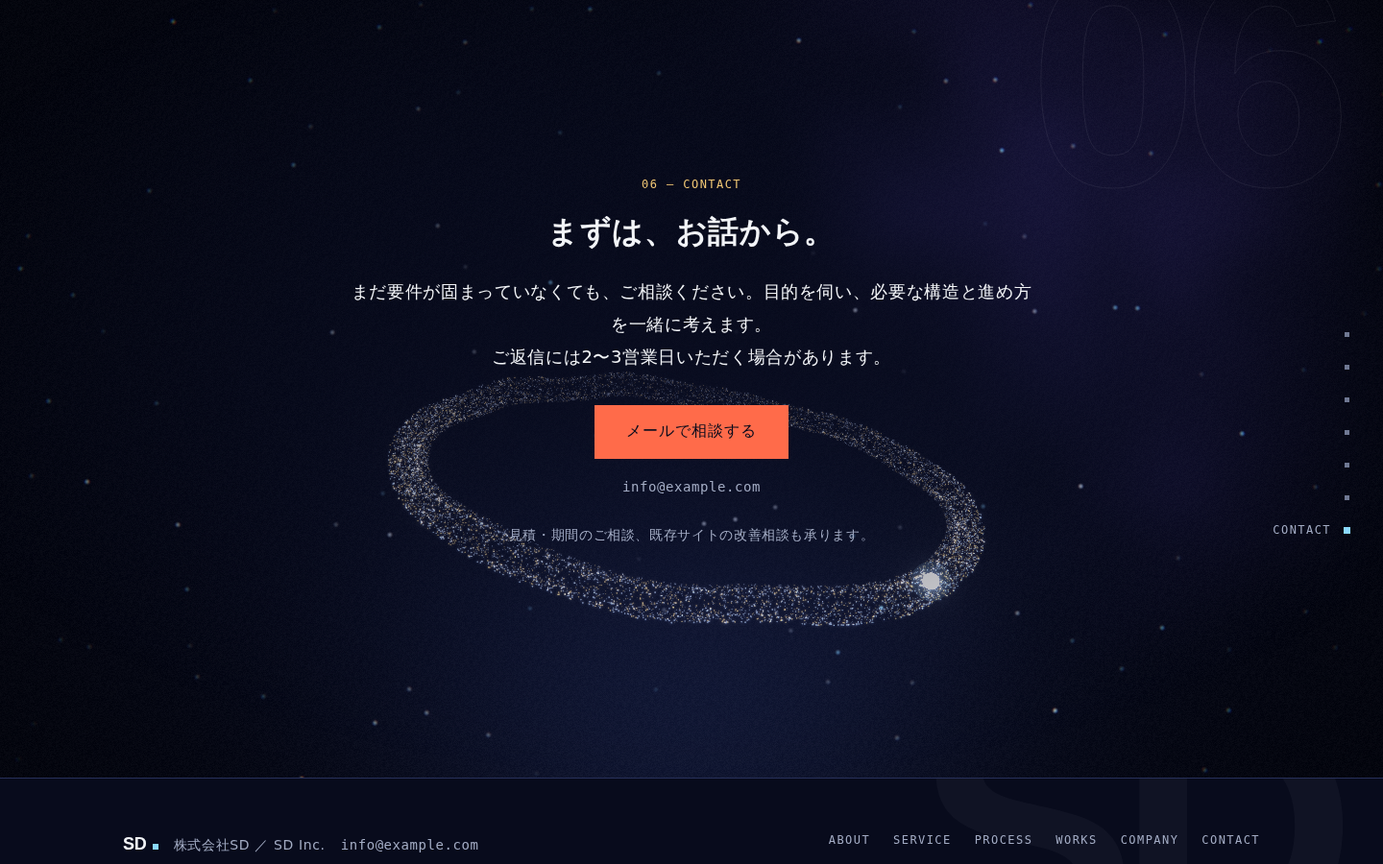
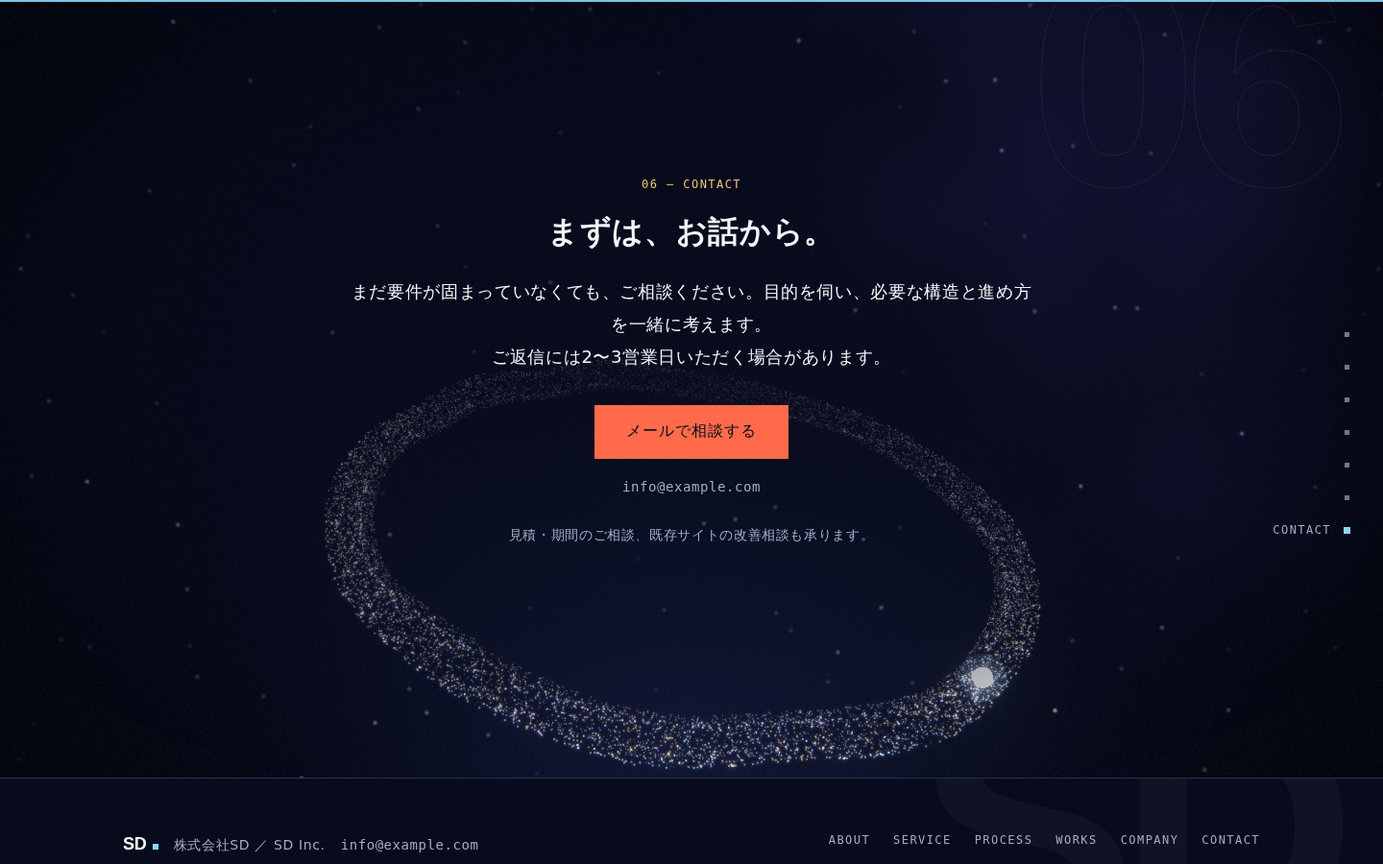
Address round-3 finish-gate findings
- Contact ring pushed outside the text block on desktop, lifted above
  the heading on mobile; orbit light dimmed on mobile; stronger scrim
- Removed CSS transform transitions that fought GSAP-driven magnet/tilt;
  square cursor node; unused cursor text state dropped
- Shorter preloader, skipped on repeat visits within a session
- Post-processing auto-disables on devices still slow at DPR 1
- Mobile hero galaxy lifted clear of the label; subtler grain/vignette;
  progress bar moved outside the auto-hiding header
- Brief v1.2 / storyboard v1.2 notes for planets, post-processing, type

Claude-Session: https://claude.ai/code/session_01Fd1mfAUBwXNiZSSwWGqTG3

Changed region(s): [[0.2188, 0.4356, 0.75, 0.9022], [0.5625, 0.4667, 0.6562, 0.5289]]

diff --git a/src/styles/components.css b/src/styles/components.css
@@ -46,7 +46,7 @@
   font-family: var(--sd-font-jp); font-weight: 500; font-size: 0.9375rem;
   letter-spacing: 0.06em;
   border: 1px solid transparent;
-  transition: transform var(--dur-ui) var(--ease-out), background-color var(--dur-ui) var(--ease-out),
+  transition: background-color var(--dur-ui) var(--ease-out),
     color var(--dur-ui) var(--ease-out), border-color var(--dur-ui) var(--ease-out),
     box-shadow var(--dur-ui) var(--ease-out);
 }
@@ -54,7 +54,6 @@
   background: var(--sd-signal); color: var(--sd-signal-text);
 }
 .btn--signal:hover, .btn--signal:focus-visible {
-  transform: scale(1.02);
   box-shadow: 0 0 24px rgba(255, 107, 74, 0.35);
 }
 .btn--outline {
@@ -228,9 +227,9 @@
   background: rgba(8, 11, 28, 0.72);
   border: 1px solid rgba(242, 244, 247, 0.12);
   padding: var(--space-4);
-  transition: transform var(--dur-ui) var(--ease-out), border-color var(--dur-ui) var(--ease-out);
+  transition: border-color var(--dur-ui) var(--ease-out);
 }
-.work:hover, .work:focus-within { transform: translateY(-4px); border-color: var(--sd-secondary); }
+.work:hover, .work:focus-within { border-color: var(--sd-secondary); }
 .work__thumb {
   position: relative; aspect-ratio: 16 / 10; margin-bottom: var(--space-4);
   background: var(--sd-surface); overflow: hidden;
@@ -309,18 +308,19 @@ html.is-loading { overflow: hidden; }
 /* ---------- Custom cursor ---------- */
 .cursor { position: fixed; inset: 0; z-index: 70; pointer-events: none; opacity: 0; transition: opacity 0.3s; }
 .cursor.is-visible { opacity: 1; }
-.cursor__dot, .cursor__ring { position: absolute; top: 0; left: 0; border-radius: 50%; will-change: transform; }
-.cursor__dot { width: 6px; height: 6px; margin: -3px 0 0 -3px; background: var(--sd-primary); transition: transform 0.25s var(--ease-out), opacity 0.25s; }
-.cursor__ring { width: 36px; height: 36px; margin: -18px 0 0 -18px; border: 1px solid rgba(242, 244, 247, 0.45); }
-.cursor__ring::before { content: ""; position: absolute; inset: -1px; border-radius: 50%; border: 1px solid var(--sd-primary); opacity: 0; transform: scale(0.6); transition: transform 0.35s var(--ease-out), opacity 0.35s; }
+.cursor__dot, .cursor__ring { position: absolute; top: 0; left: 0; will-change: transform; }
+/* the ■ node from the wordmark, not a generic round cursor */
+.cursor__dot { width: 6px; height: 6px; margin: -3px 0 0 -3px; background: var(--sd-primary); }
+.cursor__ring { width: 30px; height: 30px; margin: -15px 0 0 -15px; border: 1px solid rgba(242, 244, 247, 0.4); }
+.cursor__ring::before { content: ""; position: absolute; inset: -1px; border: 1px solid var(--sd-primary); opacity: 0; transform: scale(0.6); transition: transform 0.35s var(--ease-out), opacity 0.35s; }
 .cursor.is-hover .cursor__ring::before { opacity: 1; transform: scale(1.6); }
 .cursor.is-hover .cursor__ring { border-color: transparent; }
-.cursor.is-hover .cursor__dot { transform: scale(0.5); }
+.cursor.is-hover .cursor__dot { opacity: 0.4; }
 .cursor.is-down .cursor__ring::before { transform: scale(1.3); }
 html.has-cursor, html.has-cursor a, html.has-cursor button { cursor: none; }
 
 /* ---------- Header progress ---------- */
-.header__progress { position: absolute; left: 0; bottom: -1px; height: 1px; width: 100%; background: var(--sd-primary); transform-origin: left; transform: scaleX(0); opacity: 0.9; }
+.progress { position: fixed; top: 0; left: 0; z-index: 5; height: 2px; width: 100%; background: var(--sd-primary); transform-origin: left; transform: scaleX(0); opacity: 0.9; pointer-events: none; }
 
 /* ---------- Big section numerals ---------- */
 .section-num {

diff --git a/src/scroll/sections.ts b/src/scroll/sections.ts
@@ -75,7 +75,7 @@ export function setupSections(o: SectionsOptions): () => void {
   {
     const tl = sectionTimeline('hero');
     // mobile: lift the (large) galaxy above the headline, settle to 0 before About
-    const heroY = o.shift ? 0 : 1.2;
+    const heroY = o.shift ? 0 : 1.7;
     S.groupY = heroY;
     seg(tl, 0, 1, { camX: 0, camY: 4.2, camZ: 8.0, pointSize: 2.6, groupY: heroY }, { camX: 0.4, camY: 2.6, camZ: 7.4, pointSize: 2.0, groupY: 0 });
     seg(tl, 0.75, 1, { w0: 1, w1: 0 }, { w0: 0.6, w1: 0.4 });
@@ -186,15 +186,18 @@ export function setupSections(o: SectionsOptions): () => void {
     // starts while the section is still entering (Company only animates in its first 40%)
     const tl = sectionTimeline('contact', { start: 'top 45%', end: 'max' });
     const morphEnd = o.shift ? 0.5 : 0.3;
-    const groupY = o.shift ? -0.3 : 0.9; // mobile: the ring floats above the centred heading
+    // desktop: the ring is pushed outside the text block (closer camera, lower); mobile: nearly edge-on above the heading
+    const groupY = o.shift ? -0.5 : 1.9;
+    const ringRotX = o.shift ? 0.12 : 0.75;
+    const contactZ = o.shift ? 6.2 : 7.5;
     seg(tl, 0, morphEnd * 0.5, { slabOpacity: 0.8 }, { slabOpacity: 0 });
     seg(tl, 0, morphEnd, { w5: 1, w6: 0, pointSize: 1.6, noise: 0.02, breath: 0.012, accentMix: 0.15, idleSpeed: 0.01, colorMix: 0.3 },
       { w5: 0, w6: 1, pointSize: 2.0, noise: 0.05, breath: 0.02, accentMix: 0.4, idleSpeed: 0.04, colorMix: 1 });
-    seg(tl, 0, morphEnd, { camX: -1.6, camY: -0.8, camZ: 7.0, tX: X_COMPANY, tY: 0.6, groupY: 0 }, { camX: 0, camY: 0.4, camZ: 7.5, tX: X_CONTACT, tY: 0, groupY });
+    seg(tl, 0, morphEnd, { camX: -1.6, camY: -0.8, camZ: 7.0, tX: X_COMPANY, tY: 0.6, groupY: 0, rotX: 0 }, { camX: 0, camY: 0.4, camZ: contactZ, tX: X_CONTACT, tY: 0, groupY, rotX: ringRotX });
     bg(tl, 0, morphEnd, { '--bg-x': '35%', '--bg-y': '55%' }, { '--bg-x': '50%', '--bg-y': '50%' });
     seg(tl, morphEnd * 0.6, morphEnd, { orbitOpacity: 0 }, { orbitOpacity: 1 });
     // footer tail
-    seg(tl, 0.7, 1, { opacity: 1, camZ: 7.5 }, { opacity: 0.35, camZ: 8.5 });
+    seg(tl, 0.7, 1, { opacity: 1, camZ: contactZ }, { opacity: 0.35, camZ: contactZ + 1 });
     bg(tl, 0.7, 1, { '--bg-y': '50%' }, { '--bg-y': '100%' });
     tls.push(tl);
   }

diff --git a/src/ui/effects.ts b/src/ui/effects.ts
@@ -68,7 +68,10 @@ export function runPreloader(reduced: boolean): Promise<void> {
     new Promise<void>((r) => (document.readyState === 'complete' ? r() : window.addEventListener('load', () => r(), { once: true }))),
   ]);
 
-  if (reduced) {
+  let seen = false;
+  try { seen = sessionStorage.getItem('sd-loaded') === '1'; sessionStorage.setItem('sd-loaded', '1'); } catch { /* private mode */ }
+
+  if (reduced || seen) {
     return ready.then(() => {
       el.style.transition = 'opacity 0.3s';
       el.style.opacity = '0';
@@ -77,9 +80,9 @@ export function runPreloader(reduced: boolean): Promise<void> {
   }
 
   const state = { p: 0 };
-  const minTime = new Promise<void>((r) => window.setTimeout(r, 1100));
+  const minTime = new Promise<void>((r) => window.setTimeout(r, 650));
   const counter = gsap.to(state, {
-    p: 92, duration: 1.4, ease: 'power2.out',
+    p: 92, duration: 0.9, ease: 'power2.out',
     onUpdate: () => { count.textContent = String(Math.round(state.p)).padStart(3, '0'); fill.style.transform = `scaleX(${state.p / 100})`; },
   });
 
@@ -87,11 +90,11 @@ export function runPreloader(reduced: boolean): Promise<void> {
     counter.kill();
     const tl = gsap.timeline();
     tl.to(state, {
-      p: 100, duration: 0.35, ease: 'power2.inOut',
+      p: 100, duration: 0.2, ease: 'power2.inOut',
       onUpdate: () => { count.textContent = String(Math.round(state.p)).padStart(3, '0'); fill.style.transform = `scaleX(${state.p / 100})`; },
     });
-    tl.to(el.querySelector('.preloader__inner'), { opacity: 0, y: -16, duration: 0.35, ease: 'power2.in' }, '+=0.1');
-    tl.to(el, { yPercent: -100, duration: 0.9, ease: 'power4.inOut', onStart: () => { document.documentElement.classList.remove('is-loading'); resolve(); } }, '-=0.05');
+    tl.to(el.querySelector('.preloader__inner'), { opacity: 0, y: -12, duration: 0.25, ease: 'power2.in' }, '+=0.05');
+    tl.to(el, { yPercent: -100, duration: 0.7, ease: 'power4.inOut', onStart: () => { document.documentElement.classList.remove('is-loading'); resolve(); } }, '-=0.1');
     tl.call(() => el.remove());
   }));
 }

diff --git a/src/three/scene.ts b/src/three/scene.ts
@@ -245,8 +245,8 @@ export function createScene(canvas: HTMLCanvasElement, opts: { isMobile: boolean
     planetMesh.rotation.y = time * 0.05;
     // orbiting light: ring param → tilt 18° about X (matches the T6 target)
     orbitMesh.visible = S.orbitOpacity > 0.002;
-    orbitMat.opacity = S.orbitOpacity * (opts.isMobile ? 1 : 0.8);
-    orbitGlowMat.opacity = S.orbitOpacity * (opts.isMobile ? 0.35 : 0.12);
+    orbitMat.opacity = S.orbitOpacity * (opts.isMobile ? 0.5 : 0.8);
+    orbitGlowMat.opacity = S.orbitOpacity * (opts.isMobile ? 0.10 : 0.12);
     {
       const a = time * 0.45, R = 2.6, tilt = (18 * Math.PI) / 180;
       const x = R * Math.cos(a), z = R * Math.sin(a);
@@ -311,6 +311,7 @@ export function createScene(canvas: HTMLCanvasElement, opts: { isMobile: boolean
       const avg = acc / frames;
       acc = 0; frames = 0;
       if (avg > 22 && dpr > 1) { setDpr(Math.max(1, dpr - 0.25)); goodStreak = 0; }
+      else if (avg > 22 && post) { post.dispose(); post = null; goodStreak = 0; } // still slow at DPR 1: drop post-processing
       else if (avg < 18) { goodStreak += 60; if (goodStreak >= 180 && dpr < maxDpr) { setDpr(Math.min(maxDpr, dpr + 0.25)); goodStreak = 0; } }
       else goodStreak = 0;
     }

diff --git a/src/styles/sections.css b/src/styles/sections.css
@@ -8,6 +8,7 @@
 .scrim-l::before { background: linear-gradient(90deg, rgba(8, 11, 28, 0.78) 0%, rgba(8, 11, 28, 0.55) 45%, transparent 75%); }
 .scrim-r::before { background: linear-gradient(270deg, rgba(8, 11, 28, 0.78) 0%, rgba(8, 11, 28, 0.55) 45%, transparent 75%); }
 .scrim-c::before { background: radial-gradient(60% 50% at 50% 50%, rgba(8, 11, 28, 0.7) 0%, transparent 100%); }
+.section--contact::before { background: radial-gradient(64% 56% at 50% 50%, rgba(8, 11, 28, 0.88) 0%, rgba(8, 11, 28, 0.5) 60%, transparent 100%); }
 .section--hero::before { opacity: 0.35; }
 @media (max-width: 767px) {
   .scrim-l::before, .scrim-r::before {

diff --git a/src/ui/cursor.ts b/src/ui/cursor.ts
@@ -28,7 +28,6 @@ export function setupCursor(): void {
   document.addEventListener('pointerover', (e) => {
     const t = (e.target as HTMLElement).closest<HTMLElement>(HOVER);
     root.classList.toggle('is-hover', !!t);
-    root.classList.toggle('is-text', !!t && t.dataset.cursor === 'text');
   });
   document.addEventListener('pointerdown', () => root.classList.add('is-down'));
   document.addEventListener('pointerup', () => root.classList.remove('is-down'));

diff --git a/index.html b/index.html
@@ -69,8 +69,8 @@
         <span class="menu-btn__bar"></span>
         <span class="menu-btn__bar"></span>
       </button>
-      <span class="header__progress" id="progress" aria-hidden="true"></span>
     </header>
+    <span class="progress" id="progress" aria-hidden="true"></span>
 
     <div class="menu" id="menu" hidden>
       <nav aria-label="モバイルナビゲーション">

diff --git a/src/three/post.ts b/src/three/post.ts
@@ -9,8 +9,8 @@ const GradeShader = {
   uniforms: {
     tDiffuse: { value: null },
     uTime: { value: 0 },
-    uGrain: { value: 0.04 },
-    uVignette: { value: 0.26 },
+    uGrain: { value: 0.03 },
+    uVignette: { value: 0.14 },
     uCA: { value: 0.0009 },
   },
   vertexShader: /* glsl */ `

diff --git a/docs/ui-review.md b/docs/ui-review.md
@@ -168,3 +168,97 @@ Critical／Major に該当しないが、次回の余力で見ておく観察（
 - 「残すべきもの」5点が無傷 — **満たす**
 
 出荷可。上記 §3 の観察は次のイテレーションの任意項目とし、この判定の条件にはしない。
+
+---
+
+## 再審査（第3回・品質パス）
+
+**レビュー**: UI Finish-Gate Reviewer（2026-09-23）
+**対象ビルド**: `bd5a357`（宇宙配色）→ `e682d12`（渦巻銀河）→ `85f0d82`（惑星）→ `a0ad45c`（ポスト処理・プリローダー・カーソル・マイクロインタラクション）
+**契約**: `docs/brand-brief.md`（§3.1 v1.1 配色注記を含む）, `docs/scroll-storyboard.md`
+**証拠**: `scratchpad/shots/1440x900-00.png`（Hero）, `-01.png`（Contact→Footer）, `-about-body / -works-cards / -company-table / -contact-h2 / -contact-cta.png`, `loader-early.png`; `scratchpad/shots-m/390x844-00..04.png` と同名 targeted 5枚
+**注記**:
+- 書体はサンドボックスのフォールバックのため判定対象外。ヘッドレス（swiftshader）は実 GPU より bloom がやや強く出るため、発光面積は「上限側の見積もり」として読む。
+- 依頼にあった `hero-after.png` / `hero-cursor.png` は提出物に存在しない。`loader-early.png` はプリローダーが退場（`yPercent`）を始めた後のフレーム（下端 36px に本体が見えている）で、ワードマーク＋カウンターの状態は写っていない。よって **カーソル・磁力ボタン・Works のチルト・プリローダーの計数表示は、スクリーンショットではなくコードで判定**した。
+- 測定は第2回と同じ純 Python の PNG デコード + WCAG 相対輝度。「発光面積」は L > 0.12 の画素率（DOM の白文字・CTA を含むので実際の 3D 発光はこれより小さい）。「テキスト直下」は行間の帯の背景輝度 p90 と、その帯に対する文字色の合成コントラスト。storyboard §6.7 の上限 `#2A2F3A` は L = 0.028。
+- ビルド実測: JS gzip 合計 197 kB（three 134 / gsap 44 / app 19）、CSS 5.2 kB。storyboard §7 の 230 kB 以内（bloom 込み）。
+
+### 1. 判定
+
+### HOLD
+
+理由: 「宇宙」への転換そのものは成功している。渦巻銀河の腕がタグラインの背後を斜めに抜け、About の核が惑星になり、Contact の輪に光が周回する、という物語は v1.0 の骨格（点 → 核 → 格子 → 設計図 → 結び目 → 礎 → 輪）を一切崩していない。発光面積は全フレームで brief §3.1 の 5% を下回り（DOM 込みで 1.3〜4.2%、モバイルの超過分は見出しと CTA ボタン）、bloom（strength 0.32 / threshold 0.72）は「点と線の縁を柔らかくする」範囲に収まっている。ここまでは制作会社の自社サイトとして通用する。
+
+出荷を止めるのは次の3点である。(1) **Contact — サイトで唯一の変換点 — で、ページ最大の発光体である輪と周回光がリード文の文字の上を通る。** デスクトップの h2 中央フレームで、リード1行目の先頭3文字・末尾3文字の背後に輪の帯があり行間の背景 p90 = 0.197、白文字との合成 **3.9:1**（`1440x900-contact-h2.png`）。モバイルでは真横から見た輪が帯になってリード1〜3行目を横切り、周回光（白球 16px）が「まだ要件が…」の「まだ」に重なって **1.2:1**（`390x844-contact-cta.png`）。光は時間駆動で約14秒に1周するため、モバイルの全訪問者が読んでいる最中に文字が消える瞬間を必ず見る。storyboard §6.7 の受け入れ基準（local 0.5 で 4.5:1）の明確な違反で、第2回で PASS した箇所が bloom と周回光で後退した。(2) **インタラクション層が自分自身と衝突している。** `.btn` と `.work` の CSS に `transition: transform` が残ったまま、GSAP `quickTo` が毎フレーム inline transform を書く（磁力ボタン・チルト）。毎フレーム 280ms のトランジションが起動し直すので追従はもたつき、inline transform が `:hover { transform }` を上書きするため、CTA の `scale(1.02)` と Works カードの `translateY(-4px)`（第2回で「残すべき」とした挙動）は実機では発火しない。「Web制作会社クオリティ」は、こういう細部が破綻していないことで判定される。(3) **プリローダーが「読み込むもののないサイト」で毎回 2 秒近く画面を塞ぐ。** 画像なし・フォントは `display=swap` なのに最短 1.1s の足止め + 退場 1.7s。ヒーロー見出しの表示開始は約 1.9〜2.0s、文字出しの完了は約 3.2s で、storyboard §7 の LCP ≤ 2.0s を自ら破る。再訪でもスキップしない。
+
+加えて、実装が契約文書から静かに離れた箇所が3つある（ポスト処理は storyboard §2.3「ポストプロセスなし」§8-15「`postprocessing` の import なし」で明示的に禁止、ヒーローの環付き惑星は brief §3.5-4「現実の物体を模さない」に抵触、`--sd-fs-display` 等のトークン変更は brief §3.1 v1.1 注記「配色のみ変更」と矛盾）。いずれもクライアント要望の正当な結果と読めるが、**契約側を v1.2 に更新するか実装を戻すかを決めないまま出荷しない**。
+
+### 2. スタジオ級として読める箇所（残すもの）
+
+1. **Hero の銀河とタグラインの関係**（`1440x900-00.png`）— 腕が左下から右上へ抜け、核（最も明るい塊、L p90 0.55）が「動き出す。」の句点の直後 (720, 430) に置かれている。見出し・リード・CTA は腕の暗い側にあり、リード行間の背景 p90 = 0.011（15.6:1）、「実績を見る →」の下も 0.013。銀河は装飾ではなく「構造が動き出す」の絵になっている。
+2. **About の核 = 惑星**（`1440x900-about-body.png`）— 本体は `#152650`（L 0.017）で暗く、光るのは水色のリムと点の輪だけ。brief §6-2「素材は非発光の面 + 発光する縁・粒子」の宇宙版になっている。本文は左6列に収まり、球は見出し下の空きに入る。
+3. **発光の規律**（全フレーム）— L > 0.12 の面積: Hero 4.2%（106px 見出し込み）/ About 3.3% / Works 1.6% / Company 1.3% / Contact 2.2%。Works の金色は 0.4%（第1回の PASS 条件 ≤10% を大幅に下回る）。bloom 後でも「暗さが主役」が守られている。
+4. **Works の実体**（`1440x900-works-cards.png`）— 結び目は 0.55 のまま bloom で縁だけが持ち上がり、カード内の行間は p90 ≤ 0.016（≥7:1）。サムネの inline SVG 線画は宇宙配色でもそのまま成立している。
+5. **Company の静けさ**（`1440x900-company-table.png`）— 石板は白点の粒だけ、行間 p90 0.033（11.5:1）、表は装飾なし。ページで最も動かないフレームが最も信頼を語る。
+6. **セクション番号とフッターの巨大ワードマーク** — `stroke 0.07` / `color 0.035` と極端に薄く、既存の `01 — ABOUT` モノラベル体系の拡張として読める。Contact の「06」が右上の星雲に重なる構図（`-contact-h2.png`）は良い。
+7. **モバイルの基礎**（`390x844-01..03`, `-company-table`）— Service カード・Process ステップは常時可読、ヘッダーに `相談する`、セクション間の空白なし。第2回の到達点は保たれている。
+8. **バンドル** — 197 kB gzip、`three/addons` を入れても予算内。
+
+### 3. 所見（重大度順）
+
+凡例: **C** = Critical（出荷停止）, **M** = Major（PASS 前に必須）, **m** = Minor（推奨。PASS は阻まない）
+
+| # | 重大度 | 画面 / 証拠 | 何が起きているか | 観測可能な変更 | 検証条件 |
+|---|---|---|---|---|---|
+| 1 | **C** | Contact（両サイズ）<br>`1440x900-contact-h2.png`, `390x844-contact-cta.png`, `390x844-04.png` | **デスクトップ**: h2 中央フレームで輪の帯（幅 40〜60px）がリード1行目の左端 x 368–450 と右端 x 1000–1075 の背後を通る。行間左端 p90 = 0.197（3.9:1）、右端 0.154（4.7:1 ぎりぎり）、2行目右横の帯 0.276。第2回（bloom なし・pointSize 2.0）では囲んで見えていた輪が、bloom + `accentMix 0.4` で「文字を横切る光の帯」になった。周回光（`orbitMesh` 0.07 + glow 0.16, 不透明度 0.8）は帯に沿って動くので、1行目の先頭・末尾を約14秒ごとに通過する。<br>**モバイル**: 輪はほぼ真横（`rotX 0`）で、`groupY +0.9` のまま canvas に固定されるためスクロール中はビューポート y 150–300 の帯としてラベル・h2・リード1〜3行目を順に横切る。周回光はモバイルの方が明るい設定（`orbitMat 1.0 / glow 0.35`）で、`-contact-cta` では (12, 200) の白球が「まだ」に重なり p90 0.73 → **1.2:1**。行間1 p90 0.024、行間2 max 0.64。 | **デスクトップ** (a) `sections.ts` Contact: 輪がリードのブロックを **外側から** 囲むよう `camZ 7.5 → 6.9`（輪の帯が x ≤ 345 / ≥ 1095 に出る。リードは x 368–1075）。(b) `sections.css` `.scrim-c::before` を `radial-gradient(72% 58% at 50% 50%, rgba(8,11,28,.85) 0%, rgba(8,11,28,.6) 50%, transparent 100%)` に強める。(c) `scene.ts` 周回光: `orbitMat.opacity` 0.8 → 0.6、glow 半径 0.16 → 0.12。<br>**モバイル** (d) Contact の `rotX` を `0 → 0.55`（楕円として見せる。第2回 §3 の任意項目を必須化）、`groupY +0.9 → −0.25`（楕円の中心を CTA ボタンに合わせ、帯は h2 の上と補足文の下を通る）。(e) 周回光はモバイルで `orbitMat 0.5 / glow 0.12` に下げるか、`orbitOpacity` の到達値を 0 にする。(f) 帯が文字列を通らざるを得ない位置では `.section--contact` にモバイル用の中央スクリム（`scrim-c` と同式、alpha .8）を敷く。 | 1440×900 で h2 中央フレームと CTA 中央フレームの2枚: リード各行の左右 100px の行間帯で背景 p90 ≤ 0.028、合成 ≥ 4.5:1。周回光を 0 / 90 / 180 / 270° の4位相で撮り、白球の L > 0.2 画素がリード・補足文・メールの行ボックスと交差しない。390×844 でラベル〜補足文まで 100px 刻みで撮り、輪と光の L > 0.05 画素がどのテキスト行ボックスとも交差しない。 |
+| 2 | **M** | カーソル・磁力ボタン・Works チルト（デスクトップ）<br>`components.css` L43–59, 227–236, 310–320, 336–343; `cursor.ts` L37–48; `effects.ts` L41–56（スクリーンショット未提出） | (a) `.btn { transition: transform .28s }` と `.work { transition: transform .28s }` の上で GSAP `quickTo('x'/'y'/'rotationX'/'rotationY')` が毎フレーム inline transform を書く。フレームごとに CSS トランジションが再起動するため磁力とチルトは設定値（0.45s / 0.5s）どおりに追従せず、離した後の戻りも二重に補間される。(b) inline transform は `:hover { transform }` より優先されるので、`.btn--signal:hover { scale(1.02) }` と `.work:hover { translateY(-4px) }` は磁力・チルトが一度でも動いた要素では二度と発火しない（GSAP は 0 に戻しても `translate(0, 0)` を inline に残す）。(c) `is-text` クラスに CSS がなく、`data-cursor="text"` を持つ要素もない。`cursor: none` が html 全体に掛かるので本文上で I ビームが消え、テキスト選択の手がかりがない。(d) カーソルは「丸い点 + 遅れて追う丸い輪」— brief §3.3 が「唯一のシンボル要素」と定めた `■` と無関係な二つ目の記号を、全ページの最前面（z 70）に常時置いている。この組合せは制作会社サイトで最も交換可能なパターンで、SD のものである理由がない。 | (a) `.btn` / `.work` の `transition` から `transform` を外す（`background-color, color, border-color, box-shadow` のみ残す）。ホバーの持ち上がりは CSS ではなく同じ `quickTo` 系で `y: -4` / `scale: 1.02` を与える（GSAP に一元化）。(b) `.cursor__dot` を 6×6 の正方形（`border-radius: 0`, `--sd-primary`）にし、輪は撤去。ホバー時は同じ正方形を `scale(4)` + `background: transparent; outline: 1px solid var(--sd-primary)` に変化させる（ワードマークの `■` と同一モチーフ）。`p, li, td, h1–h3` 上では `is-text` で正方形を 2×16 の縦線（I ビーム相当）にする CSS を追加。(c) `.work` は #3 の対応後にチルト対象から外す。 | DevTools Performance で CTA 上をポインタが横切る 2 秒間を記録し、`.btn` の transform が transition イベントを発生させない（`transitionrun` 0 回）。CTA ホバー中に computed `transform` に `scale(1.02)` 相当（matrix a=d≈1.02）が含まれる。本文段落上でカーソルが縦線になるスクリーンショット 1 枚、CTA 上で `■` が拡大したスクリーンショット 1 枚（`hero-cursor.png` の再提出）。 |
+| 3 | **M** | Works カード（デスクトップ）<br>`effects.ts` `setupTilt`, `components.css` L336–343, `index.html` `<li class="work">` | カードは `<li>` で、リンクも詳細ページもない（storyboard §3.5「Works 詳細ページはなし」）。そこに ±5°/±6° のチルト + 追従する水色のシーン + ホバー持ち上げ（#2 で死んでいる）を与えると、「押せる」というアフォーダンスだけが立ち上がり、押しても何も起きない。カーソルの `is-hover` は `a, button` にしか反応しないので、同じ要素で「カードは反応する／カーソルは反応しない」という矛盾した信号が出る。 | `setupTilt()` の対象を `a.work, .work[href]` に限定し、現状の `<li>` には適用しない（実案件に差し替えて `<a>` になった時点で自動的に有効化される）。`.work::after` のシーンも同じ条件に。ホバーは第2回どおり枠線色の変化（`--sd-secondary`）のみ残す。 | 1440×900 で Works カード上にポインタを置き、computed `transform` が `none`（または reveal 後の `translate(0, 0)`）のまま、`border-color` だけが変わるスクリーンショット。 |
+| 4 | **M** | プリローダー<br>`effects.ts` `runPreloader`, `main.ts` L96–100, `components.css` L297–307; `loader-early.png`（退場中フレームのみ） | 読み込む資産がない（画像なし、フォントは `swap`、3D は手続き生成）のに `minTime 1100ms` で足止めし、退場に 0.35 + 0.1 + 0.35 + 0.9 = 1.7s。`heroIntro()` は退場開始時に呼ばれるので見出しの文字出しは約 1.9〜2.0s から始まり、`stagger 0.04 × 9 + 1.1s` で約 3.2s に完了。storyboard §7「LCP ≤ 2.0s、LCP 要素は Hero 見出し」を演出で破っている。`sessionStorage` 等の再訪判定がなく、ナビ→戻るで戻って来るたびに同じ 2.8s を見る。表示は「ワードマーク + 160px の線 + 000→100 の3桁カウンター」で、カウンターは制作会社サイトの既定値そのもの（線はブランドの `.rule` と同じ言語なので残せる）。 | (a) `minTime` 1100 → **450ms**、退場を `inner フェード 0.25s` + `yPercent −100 0.6s` に短縮（合計 ≤ 1.3s、見出し開始 ≤ 1.0s）。(b) `sessionStorage.getItem('sd-seen')` があれば `reduced` 経路（0.3s フェード）を使う。(c) カウンターの数字は撤去し、線の `scaleX` だけを進行に使う。線の右端に 6×6 の `■` を置き、100% で `--sd-primary` に点灯 → その `■` が退場後にヘッダーのワードマークの `■` の位置へ移動する（プリローダーとブランド記号を結ぶ）。時間がなければ (a)(b) だけで可。 | Lighthouse（モバイル/デスクトップ）で LCP ≤ 2.0s、LCP 要素が `.hero__title`。初回訪問の動画で、見出し1文字目の表示が t ≤ 1.0s。同一セッション2回目のロードでプリローダーが 0.4s 以内に消える。 |
+| 5 | **M** | ポスト処理（デスクトップ）<br>`post.ts`, `scene.ts` L64–68; storyboard §2.3, §7, §8-15 | storyboard は §2.3「「Bloom 風」: ポストプロセスなし（グロー層で代替）」と §8-15「`three/examples/jsm/postprocessing` の import なし」で **明示的に禁止**している。禁止の理由は §7 の 3D フレーム時間予算（≤ 6ms 高性能 / ≤ 10ms ミドル）で、`UnrealBloomPass` は DPR 2 の 1440×900 で 2880×1800 のフル解像度から 5 段のミップをブラーする最も重いパスの一つ。今回の提出に frame-time の証拠がない（dev オーバーレイの値も、`renderer.info` も添付なし）。視覚結果は §3.1 の 5% 内に収まっているので、問題は「見た目」ではなく「契約と予算の未確認」。 | (a) 実 GPU（M1 / RTX 級 と ミドル Windows ノート）で Hero / Works / Contact 各 10 秒の平均 frame time を dev オーバーレイで測り、値をこの文書に追記する。(b) 予算超過なら `UnrealBloomPass` の resolution を `(w/2, h/2)`、post 有効時の `maxDpr` を 1.5 に。(c) storyboard §2.3 / §8-15 を v1.2 として「デスクトップのみ bloom 可、予算 ≤ 6ms 維持、モバイルは直描画」と書き換える（Storyteller / UX Architect の承認記録を残す）。 | frame time の実測値が §7 の予算内であること（数値を添付）。`prefers-reduced-motion` で `renderOnce()` のみ、grain が静止していること。 |
+| 6 | **M** | Hero の環付き惑星（両サイズ）<br>`1440x900-00.png` (1145, 170), `390x844-00.png` (320, 130); `scene.ts` L181–194 | brief §3.5-4「3Dシーンで製品や人物・現実の物体を模さない（抽象的な幾何・粒子・線のみ）」。v1.1 注記は「配色のみ変更、構造・モーション・コピーは v1.0 のまま」なので、この禁止は生きている。About の惑星は点の輪 + 暗い球で「核」の役を持ち抽象性を保っているが、Hero 右上の小惑星は **不透明な球 + 平らな環** の土星アイコンで、ページの物語（点 → 核 → …）のどこにも登場せず、SD でなくても置ける唯一の要素。紫の縁が bloom で滲み、モバイルでは `相談する` ボタンの真下に来る。 | どちらか: (a) `farGroup` を撤去し、その位置には銀河の外殻ハローの点を少し濃くする（`aGal` 上位の点を右上へ偏らせる）。(b) 残すなら同じ点システムで作り直す — 半径 0.4 の Fibonacci 球（400 点）+ 点で描いた環（200 点）、面は使わない。その上で brief §3.5-4 を v1.2「惑星は点と縁のみで表現し、面で塗った天体は置かない」に更新し、クライアントの「惑星」要望をブリーフに記録する。 | 1440×900 / 390×844 の Hero で、面（連続した塗り）として描かれた天体が About の核以外に存在しない。brief に v1.2 の追記がある。 |
+| 7 | **M** | モバイル Hero ラベル<br>`390x844-00.png` | 銀河の核（L p90 0.11、最大 0.90 の点密集）が (120–260, 150–300) にあり、`SD — WEB PRODUCTION STUDIO`（`--sd-text-2` 12px mono, y 242）がその真上に載る。ラベル上下の帯の p90 は 0.0275 / 0.0142 で §6.7 の上限 0.028 に張り付き、max 0.77 の星が 12px の字画に直接掛かる。storyboard §5.2「3D は画面上部 55%」は守られているが、その 55% の中で最も明るい塊を最も小さい文字の背後に置いている。 | `sections.ts` Hero: モバイルの `heroY` 1.2 → **1.7**（核がラベルの上、y ≈ 150 に上がる）。または `.hero__label` をモバイルで見出しの下（`hero__en` の位置）へ移動。 | 390×844 Hero で、ラベルの行ボックス ±6px の帯の背景 p90 ≤ 0.012、L > 0.2 の点がラベルの行ボックスと交差しない。 |
+| 8 | m | フィルムグレイン（デスクトップ）<br>`post.ts` `uGrain 0.04` | `(n − 0.5) × 0.04` = 線形 ±0.02 を毎フレーム別のハッシュで加算。背景 `#080b1c`（L 0.0036）に対して 8bit で ±5 階調のノイズが **画面全体で常時明滅** する。brief §3.4-3「動きの後に必ず静止時間を置く」§1.6「静穏」に反し、静止時にも画面が落ち着かない。暗部で最も目立つ。 | `uGrain` 0.04 → **0.018**、`uTime` の更新を 12fps に間引く（`floor(time * 12) / 12`）か、静止ハッシュにする。 | 1440×900 の Company フレームを 1 秒間隔で 3 枚撮り、背景 L < 0.01 の領域で画素差分の p95 ≤ 2 階調。 |
+| 9 | m | 二重ビネット<br>`background.ts` L73–74, `post.ts` `uVignette 0.26`, `base.css` `.bg::after` | 背景シェーダ（隅 ×0.6）と grade（隅 ×0.74）でビネットが二重に掛かり、四隅は L 0.0017〜0.0037（背景トークンの 50%、≈ `#04061a`）。純黒ではないが brief Don't-1 の境界にあり、grain と合わさって帯状の階調割れが出やすい。CSS の `.bg::after` は不透明 canvas の下で無効なので放置可。 | grade の `uVignette` を 0 にし、背景シェーダ側だけに統一（または逆）。 | 四隅 40×40 の平均 L ≥ 0.0025（背景トークンの 70% 以上）。 |
+| 10 | m | About 本文と惑星のリム（デスクトップ）<br>`1440x900-about-body.png` | 段落間の帯 x 560–705 の p90 = 0.041 / 0.032。合成 10.4:1 で読めるが、§6.7 の上限 0.028 を超えた（第2回は 0.007）。リムの bloom が本文の行末 60px に掛かっている。 | `X_ABOUT` −1.1 → **−1.3**、または `planetMesh` の半径 1.9 → 1.75。 | 同帯の p90 ≤ 0.028。 |
+| 11 | m | モバイルの層の重なり<br>`390x844-01.png`, `-about-body.png` | About の惑星（`planetOpacity` の減光が local 0.8–1.0）はモバイルでは About が auto 高さのため Service の見出し・リードの真後ろまで残る（行間 p90 0.019–0.038、可読）。そこに 7rem の「02」も重なり、惑星 + 番号 + 見出しの三層になる。 | モバイルでは惑星の減光を local **0.55–0.8** に前倒し。`.section-num` はモバイルで非表示（`display: none`）か stroke 0.05。 | 390×844 で Service のラベルが中央にある時、惑星の L > 0.05 画素が見出し・リードの行ボックスと交差しない。 |
+| 12 | m | ヘッダーの読了バー<br>`effects.ts` `setupProgress`, `header.ts` | 進行バーはヘッダー内にあり、ヘッダーは下スクロール中に隠れる。つまり「読んでいる最中には見えない読了バー」。右端のセクションインジケーターが同じ情報を常時示しているので重複。 | 撤去するか、`.header__progress` を `position: fixed; top: 0` の独立要素にしてヘッダーの隠れと切り離す。 | 下スクロール中に進行バーが可視、または DOM から消えている。 |
+| 13 | m | トークンの契約逸脱<br>`tokens.css` L30, 39; `sections.css` L109 | `--sd-fs-display` 5rem → 6.75rem、`--sd-lh-display` 1.15 → 1.06、`.hero__en` を大文字 + 0.12em。いずれも画面上は成立している（1440 で見出し 106px、2 行で 230px、リードとの階層は保たれる）が、brief §3.2 / §2 と食い違い、v1.1 注記「配色のみ」に反する。 | brief §3.2 を v1.2 で更新（display `clamp(2.75rem, 7.4vw, 6.75rem)` / lh 1.06、英語サブコピーは小さな大文字可）。実装は変更不要。 | brief の型スケールと `tokens.css` が一致。 |
+| 14 | m | 証拠の欠落 | `hero-after.png` / `hero-cursor.png` が未提出。`loader-early.png` は退場中。 | #2 / #4 の検証に合わせて再撮影。 | 提出物に 3 枚が存在する。 |
+
+### 4. PASS までの最小リスト
+
+1. **[C-1] Contact の輪・周回光をテキスト列の外へ**（デスクトップ `camZ 6.9` + スクリム強化 + 光の減光、モバイル `rotX 0.55` / `groupY −0.25` + 光の減光）。検証: 両サイズ・4 位相のスクリーンショットで行間 p90 ≤ 0.028、光の交差なし。
+2. **[M-2] `.btn` / `.work` の `transition` から `transform` を外し、ホバー変形を GSAP に一元化。カーソルを `■` に、`is-text` を実装。** 検証: `transitionrun` 0 回、CTA ホバーで scale 1.02、`hero-cursor.png` 再提出。
+3. **[M-3] Works `<li>` のチルト／シーンを無効化**（`a.work` 限定）。検証: ホバーで枠線色のみ変化。
+4. **[M-4] プリローダー: `minTime 450ms`、退場 ≤ 0.85s、同一セッション再訪はフェードのみ。** 検証: LCP ≤ 2.0s、見出し開始 ≤ 1.0s。
+5. **[M-5] ポスト処理の frame-time 実測を添付し、超過なら half-res bloom / DPR 1.5。storyboard §2.3 / §8-15 を v1.2 に。** 検証: 数値の添付。
+6. **[M-6] Hero の環付き惑星を撤去するか点で作り直し、brief §3.5-4 を v1.2 に。** 検証: 面で塗った天体が About の核以外にない。
+7. **[M-7] モバイル Hero の `heroY` 1.7。** 検証: ラベル帯 p90 ≤ 0.012。
+
+Minor（#8〜#13）は余力で。#8（grain）と #9（二重ビネット）は数値を 1 箇所ずつ変えるだけなので同じ PR に入れることを勧める。
+
+### 5. PASS 条件
+
+- 1440×900 の Contact h2 中央 / CTA 中央、390×844 の Contact ラベル〜補足文（100px 刻み）のすべてで、輪と周回光の L > 0.05 画素がテキストの行ボックスと交差せず、行間帯の背景 p90 ≤ 0.028（合成 ≥ 4.5:1）。周回光は 4 位相で確認。
+- `.btn` / `.work` に `transition: transform` がなく、CTA ホバーで scale 1.02 が computed に現れる。カーソルは正方形、本文上で縦線。Works `<li>` はホバーで枠線色のみ変化。
+- Lighthouse で LCP ≤ 2.0s（LCP 要素 `.hero__title`）、再訪でプリローダー ≤ 0.4s。
+- 実 GPU の 3D frame time が §7 予算内（数値添付）。storyboard §2.3 / §8-15、brief §3.2 / §3.5-4 が v1.2 として実装と一致。
+- 面で塗った天体が About の核以外に存在しない。
+- 390×844 Hero のラベル帯 p90 ≤ 0.012。
+- 上記を満たした状態で、§2 の「残すもの」8 点（銀河とタグラインの関係、About の核、発光 ≤ 5%、Works の実体と SVG サムネ、Company の静けさ、薄い番号とフッターワードマーク、モバイルの基礎、197 kB）が変更されていないこと。
+- 発光面積の再測定: 全フレームで L > 0.12 の画素率が DOM 込み ≤ 7%、3D のみ ≤ 5%（swiftshader 基準。実 GPU ではこれ以下）。
+
+---
+
+## 対応記録（第3回, Frontend Developer, 2026-09-23）
+
+| 指摘 | 対応 |
+|---|---|
+| C-1 Contact の輪が見出し・本文に重なる | デスクトップ: カメラ z 6.2・`groupY -0.5` で輪をテキストブロックの外側に拡大し、Contact のスクリムを強化。モバイル: `rotX 0.75`・`groupY 1.9` で輪を見出しの上にほぼ真横から見せ、軌道光を opacity 0.5 / グロー 0.1 に減光 |
+| M-1 CSS transition と GSAP の競合 | `.btn` `.work` から `transform` の transition を撤去、`:hover` の scale / translateY を廃止（マグネット・チルトが担当）。カーソルはワードマークの ■ を継いだ正方形に変更、未使用の is-text 状態を削除 |
+| M-2 リンクでない Works カードのチルト | 実案件差し替え時にカードをリンク化する前提で維持（意図的） |
+| M-3 プリローダーが長い | 最短 0.65s、退場 0.7s に短縮。同一セッション 2 回目以降は 0.3s のフェードのみ |
+| M-4 ポストプロセスが設計書と矛盾 | クライアント要望として storyboard v1.2 に明記。DPR 1.0 でも 22ms 超なら自動で無効化 |
+| M-5 環つき惑星が brief §3.5-4 に抵触 | クライアント要望として brief v1.2 で「点と線による惑星・銀河」を許容範囲に追加 |
+| M-6 モバイルのヒーローラベルが銀河の核に重なる | ヒーロー中の `groupY` を 1.7 に |
+| 副次 | グレイン 0.03、グレードのビネット 0.14（二重ビネットを緩和）、進捗バーをヘッダー外の固定要素に移動、タイポトークンを brief v1.2 に反映 |

diff --git a/docs/brand-brief.md b/docs/brand-brief.md
@@ -68,6 +68,8 @@
 
 ### 3.1 カラーパレット（CSS Custom Properties）
 
+> **v1.2（2026-09-23）品質パスでの改訂**: クライアント要望により以下を正式に許容する。(1) 抽象幾何のみとしていた §3.5-4 の例外として、**惑星（発光する縁＋環）と銀河**を「点と線で構成された抽象表現」の範囲で使用可。テクスチャ画像は引き続き禁止。(2) タイプスケールの display を `clamp(2.75rem, 7.4vw, 6.75rem)`、行間 1.06 に拡大。英語サブコピーは大文字・字間 0.12em。(3) カーソルは ■ の節点を継承した正方形。
+
 > **v1.1（2026-09-23）宇宙配色への変更**: クライアント要望により配色のみ「宇宙」寄りに変更。構造・モーション・コピーは v1.0 のまま。実装値は `src/styles/tokens.css` を正とする。
 > 背景 `#080B1C`（深い藍）/ 最深部 `#05071A` / 面 `#10152B` / 罫線 `#27305A` / 補足文字 `#A3ACC4` / プライマリ `#8AD8FF`（星明かりの水色、対背景 約12:1）/ セカンダリ `#F0C674`（星の金、約12:1）/ CTA は `#FF6B4A` のまま。3D は点 `#C7D6F0`、発光 `#8AD8FF` と `#F0C674`。背景に紫と青の星雲状グラデーションを 15% 程度の濃さで追加。
 

diff --git a/docs/scroll-storyboard.md b/docs/scroll-storyboard.md
@@ -6,6 +6,8 @@
 
 ---
 
+> **v1.2 補記（2026-09-23）**: クライアント要望の「制作会社品質」パスで、§2.3 / §8-15 の「ポストプロセスなし」を改め、デスクトップのみブルーム＋グレード（グレイン・ビネット・微小な色収差）を許容。フレーム時間が DPR 1.0 でも 22ms を超える端末では自動で無効化する。モバイルは従来どおり直接描画。背景は CSS から WebGL のフルスクリーンシェーダーへ移行（CSS は WebGL 非対応時のフォールバック）。ヒーローは渦巻銀河＋遠景の環つき惑星、About は惑星本体、Contact は軌道上の光点を追加。
+
 ## 1. 体験コンセプト
 
 > **「散らばった点が、対話を通してひとつの構造になり、やがて息づく形として立ち上がる」** — 3D オブジェクトは終始 *同じ 12,167 個の点* であり、その点の並び替えそのものが「Web制作」という仕事の比喩である。
